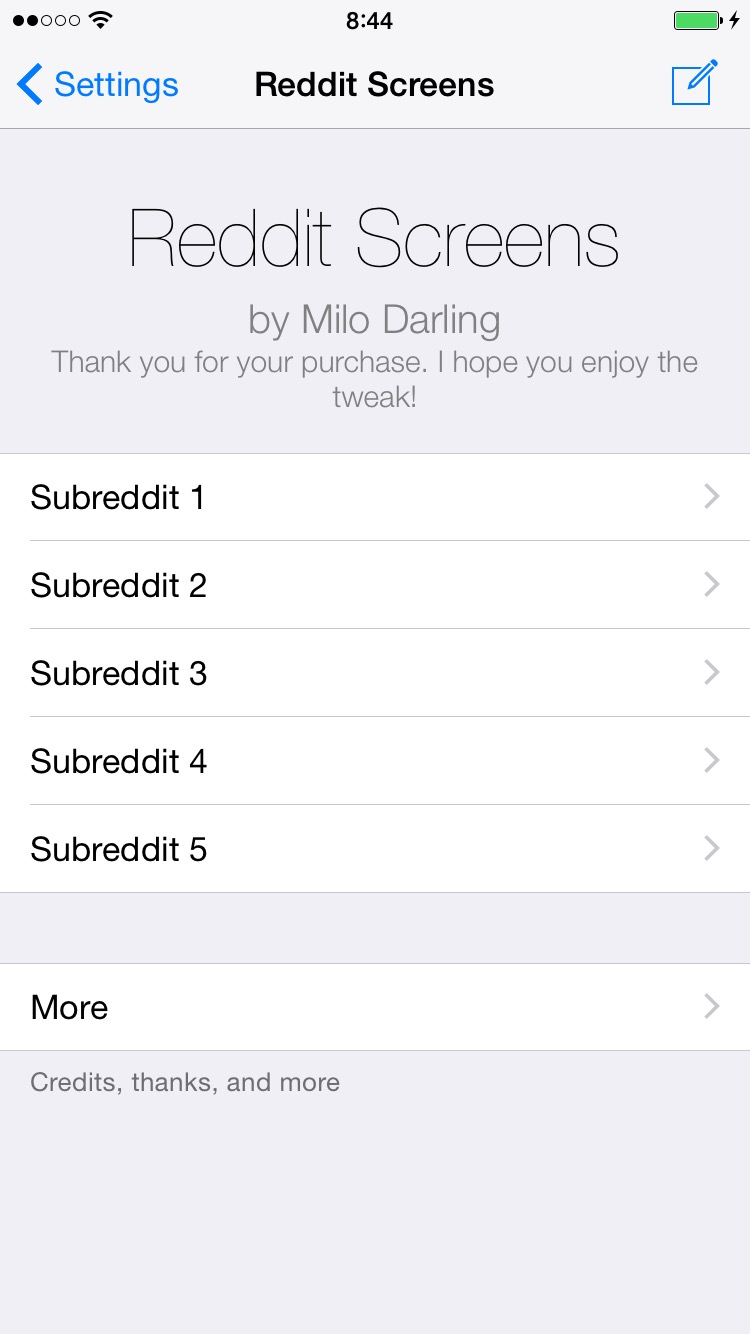
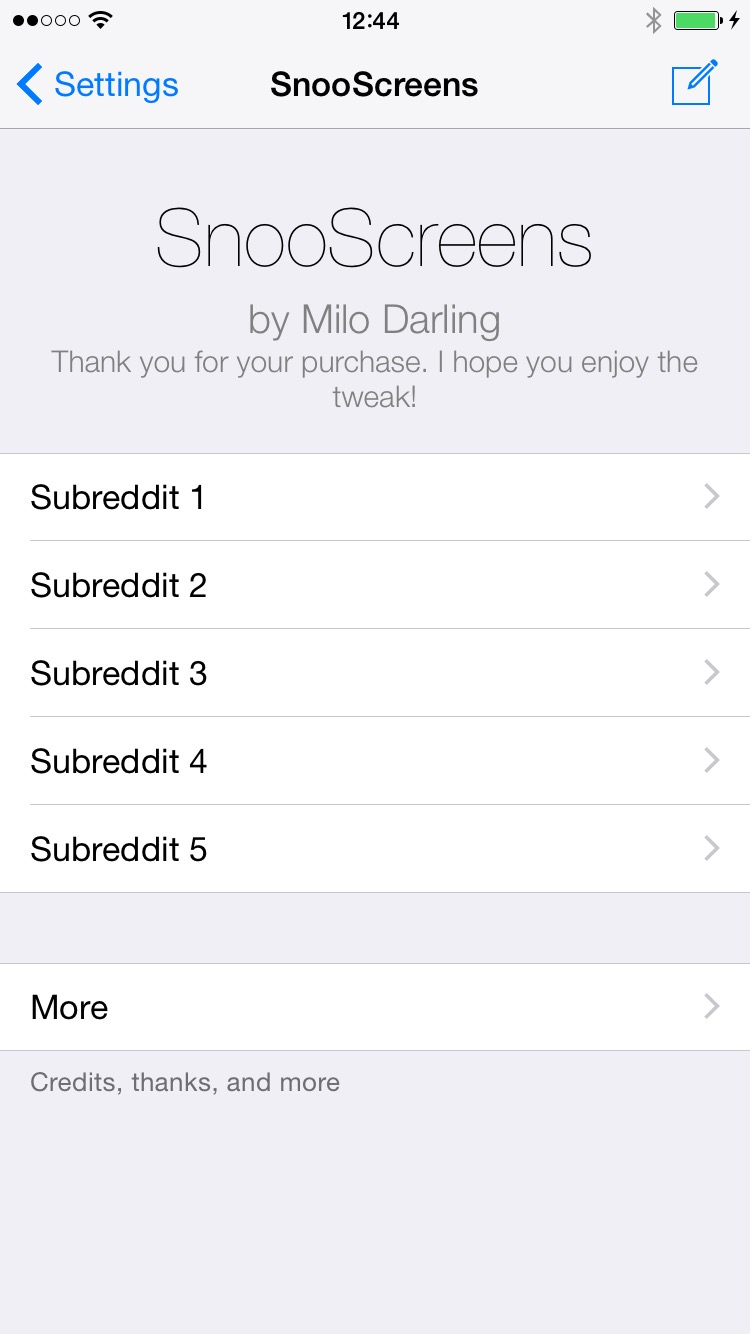
Renamed to SnooScreens

Changed region(s): [[0.1533, 0.1537, 0.7973, 0.2151], [0.3373, 0.0, 0.6747, 0.0922], [0.8587, 0.0, 0.8893, 0.0307]]

diff --git a/snooscreens/SnooScreens.mm b/snooscreens/SnooScreens.mm
@@ -2,18 +2,18 @@
 #import <Twitter/TWTweetComposeViewController.h>
 
 static BOOL isTinted() {
-    if (![[NSFileManager defaultManager] fileExistsAtPath:@"/var/lib/dpkg/info/com.milodarling.redditscreens.list"]) {
+    if (![[NSFileManager defaultManager] fileExistsAtPath:@"/var/lib/dpkg/info/org.thebigboss.snooscreens.list"]) {
         return YES;
     }
     return NO;
 }
 
-@interface RedditScreensListController: PSListController {
+@interface SnooScreensListController: PSListController {
 }
 @end
 
-@implementation RedditScreensListController
-NSString *tweakName = @"Reddit Screens";
+@implementation SnooScreensListController
+NSString *tweakName = @"SnooScreens";
 - (id)specifiers {
 	if(_specifiers == nil) {
 		_specifiers = [[self loadSpecifiersFromPlistName:@"Root" target:self] retain];
@@ -28,29 +28,28 @@ NSString *tweakName = @"Reddit Screens";
 
 -(void)tweetSweetNothings:(id)sender {
     TWTweetComposeViewController *tweetController = [[TWTweetComposeViewController alloc] init];
-    [tweetController setInitialText:@"I downloaded #RedditScreens by @JamesIscNeutron and I love it!"];
+    [tweetController setInitialText:@"I downloaded #SnooScreens by @JamesIscNeutron and I love it!"];
     [self.navigationController presentViewController:tweetController animated:YES completion:nil];
     [tweetController release];
 }
 @end
 
-@interface RSCustomCell : PSTableCell{
+@interface SSCustomCell : PSTableCell{
     UILabel *tweakName;
     UILabel *devName;
     UILabel *piracyNotice;
 }
 @end
 
-@implementation RSCustomCell
-NSString *nameOfTweak = @"Reddit Screens";
+@implementation SSCustomCell
+NSString *nameOfTweak = @"SnooScreens";
 
 - (id)initWithSpecifier:(PSSpecifier *)specifier {
     self = [super initWithStyle:UITableViewCellStyleDefault reuseIdentifier:@"Cell" specifier:specifier];
     if (self) {
-        CFPreferencesAppSynchronize(CFSTR("com.milodarling.redditscreens"));
-        BOOL comicsans = !CFPreferencesCopyAppValue(CFSTR("comicsans"), CFSTR("com.milodarling.redditscreens")) ? NO : [(id)CFPreferencesCopyAppValue(CFSTR("comicsans"), CFSTR("com.milodarling.redditscreens")) boolValue];
+        CFPreferencesAppSynchronize(CFSTR("com.milodarling.snooscreens"));
+        BOOL comicsans = !CFPreferencesCopyAppValue(CFSTR("comicsans"), CFSTR("com.milodarling.snooscreens")) ? NO : [(id)CFPreferencesCopyAppValue(CFSTR("comicsans"), CFSTR("com.milodarling.snooscreens")) boolValue];
         int width = [[UIScreen mainScreen] bounds].size.width;
-        NSLog(@"[Reddit Screens] Screen width: %d", width);
         CGRect frame1 = CGRectMake(0, -10, width, 60);
         CGRect frame2 = CGRectMake(0, 30, width, 60);
         //CGRect frame3 = CGRectMake(0, 50, width, 60);
@@ -82,11 +81,11 @@ NSString *nameOfTweak = @"Reddit Screens";
         if (width<=375) {
             piracyNotice = [[UILabel alloc] initWithFrame:CGRectMake(5, 50, width-10, 80)];
             [piracyNotice setNumberOfLines:2];
-            [piracyNotice setText:[RSCustomCell label]];
+            [piracyNotice setText:[SSCustomCell label]];
         } else {
             piracyNotice = [[UILabel alloc] initWithFrame:CGRectMake(0, 50, width-10, 60)];
             [piracyNotice setNumberOfLines:1];
-            [piracyNotice setText:[RSCustomCell label]];
+            [piracyNotice setText:[SSCustomCell label]];
         }
         if (isTinted() || comicsans) {
             piracyNotice.font = [UIFont fontWithName:@"MarkerFelt-Thin" size:15];
@@ -119,10 +118,10 @@ NSString *nameOfTweak = @"Reddit Screens";
 
 @end
 
-@interface RSCreditsListController: PSListController {
+@interface SSCreditsListController: PSListController {
 }
 @end
-@implementation RSCreditsListController
+@implementation SSCreditsListController
 
 - (id)specifiers {
     if(_specifiers == nil) {
@@ -214,18 +213,18 @@ NSString *nameOfTweak = @"Reddit Screens";
 }
 @end
 
-@interface RedditScreensDevCell : PSTableCell {
+@interface SnooScreensDevCell : PSTableCell {
     UIImageView *_background;
     UILabel *devName;
     UILabel *devRealName;
     UILabel *jobSubtitle;
 }
 @end
-@implementation RedditScreensDevCell
+@implementation SnooScreensDevCell
 
 -(id)initWithStyle:(UITableViewCellStyle)style reuseIdentifier:(NSString *)reuseIdentifier {
     if((self = [super initWithStyle:style reuseIdentifier:reuseIdentifier])){
-        UIImage *bkIm = [[UIImage alloc] initWithContentsOfFile:@"/Library/PreferenceBundles/RedditScreens.bundle/milo@2x.png"];
+        UIImage *bkIm = [[UIImage alloc] initWithContentsOfFile:@"/Library/PreferenceBundles/SnooScreens.bundle/milo@2x.png"];
         _background = [[UIImageView alloc] initWithImage:bkIm];
         _background.frame = CGRectMake(10, 15, 70, 70);
         [self addSubview:_background];
@@ -264,9 +263,9 @@ NSString *nameOfTweak = @"Reddit Screens";
 
 @end
 
-@interface RSTintedCell : PSTableCell
+@interface SSTintedCell : PSTableCell
 @end
-@implementation RSTintedCell
+@implementation SSTintedCell
 
 - (void)layoutSubviews {
     [super layoutSubviews];

diff --git a/README.md b/README.md
@@ -1,10 +1,10 @@
-RedditScreens
+SnooScreens
 =============
 
-Reddit Screens allows you to change your wallpaper based on the front page of the subreddit or mulitreddit of your choice. You simply pick a subreddit or multireddit and an activation method using Activator and you’re good to go! There are also options for allowing or blocking NSFW images, setting to the home screen, lock screen, or both, saving to the photo library, and using the top image post on a subreddit, or a random one from the front page (top 25).
+SnooScreens allows you to change your wallpaper based on the front page of the subreddit or mulitreddit of your choice. You simply pick a subreddit or multireddit and an activation method using Activator and you’re good to go! There are also options for allowing or blocking NSFW images, setting to the home screen, lock screen, or both, saving to the photo library, and using the top image post on a subreddit, or a random one from the front page (top 25).
 
 There are 5 separate Activator listeners, so you can get wallpapers from different subreddits at different times or occasions. Each listener has its own independent settings, so one can set your lock screen to the top post of /r/spaceporn at 6:30 AM, save it to your library, and block NSFW images, while another could set your home screen to a random post from the front page of /r/wallpaper when you shake your phone, allowing NSFW images and not saving it to your photo library. And you can have any permutation of these settings with 5 different listeners.
 
-While Reddit Screens is a commercial tweak, it is still open source.
+While SnooScreens is a commercial tweak, it is still open source.
 
 ![Settings pane](/screenshots/1.jpg?raw=true) ![Subreddit settings](/screenshots/2.jpg?raw=true) ![Activator](/screenshots/3.jpg?raw=true)
